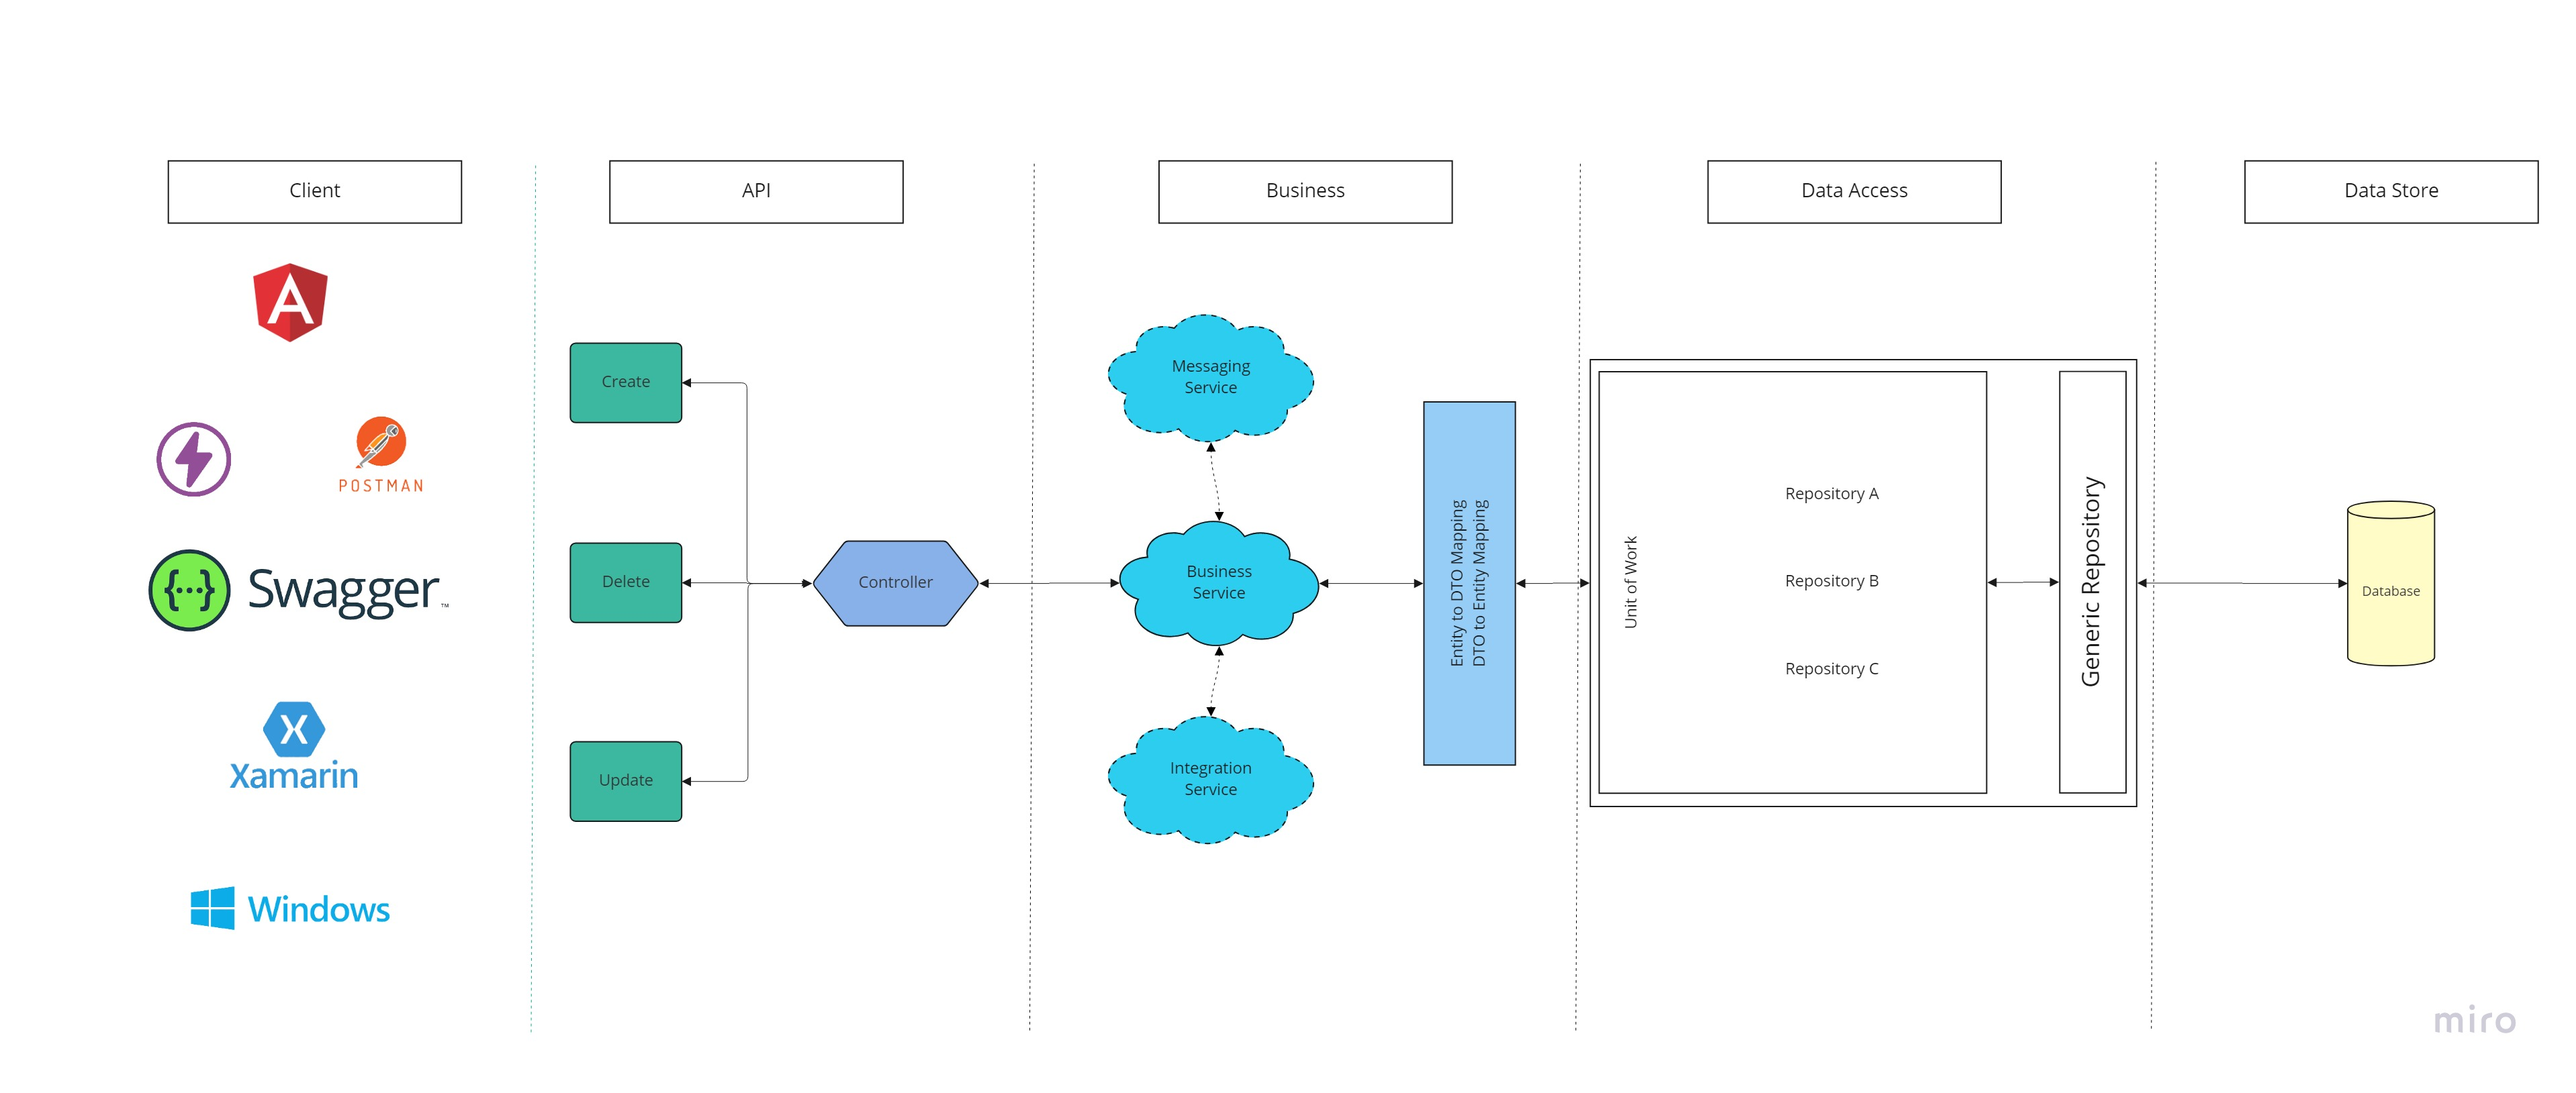
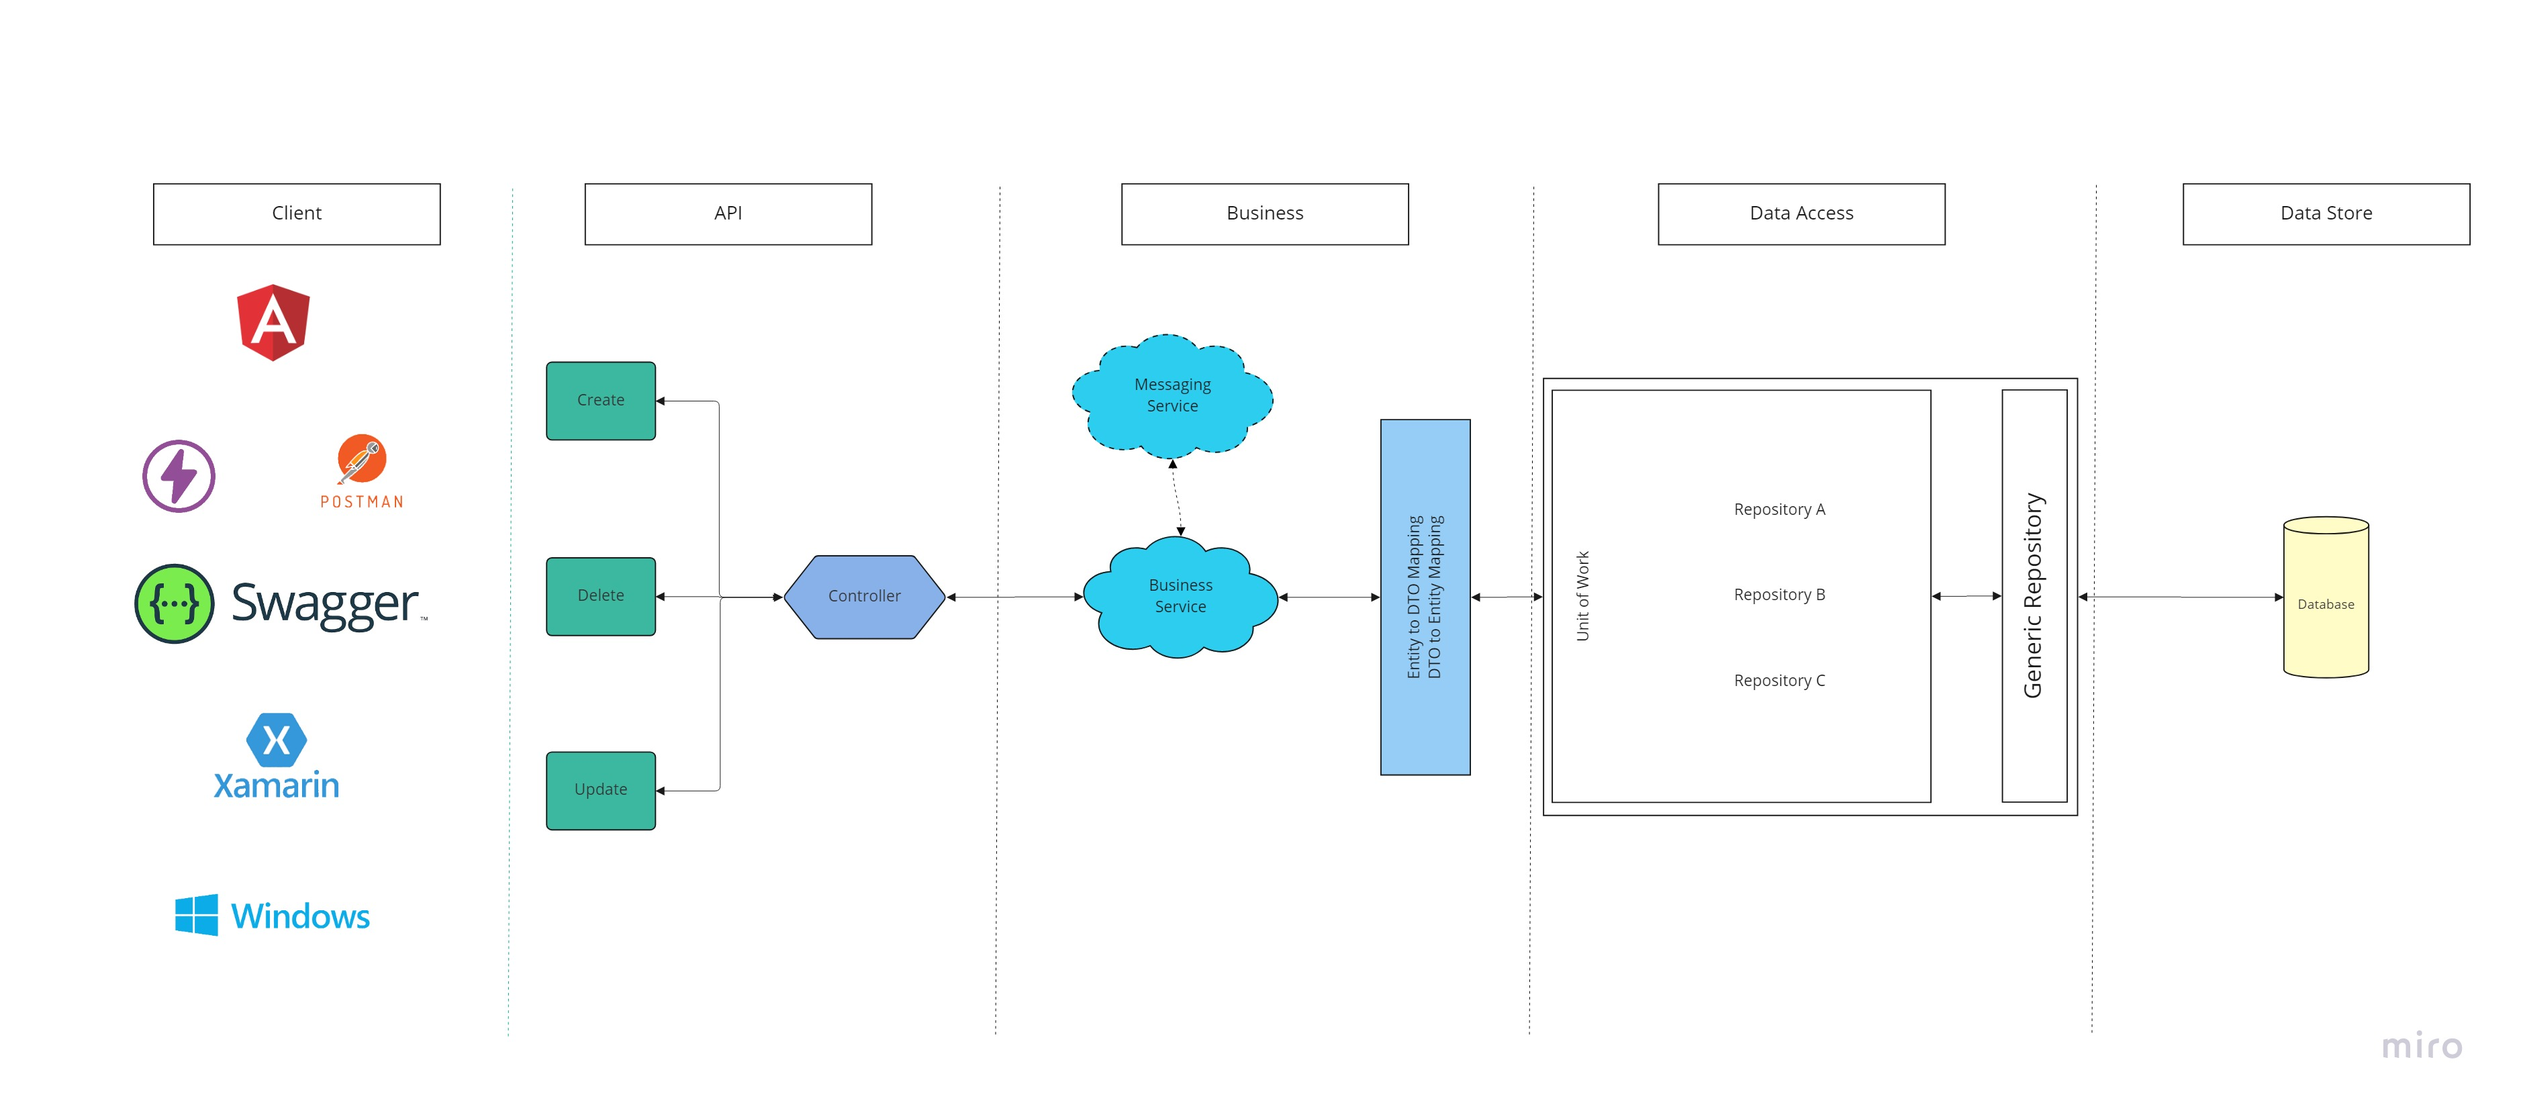
Update naming on services

diff --git a/topics/naming-service.md b/topics/naming-service.md
@@ -25,20 +25,18 @@ All Services are suffixed with dotService in order to make finding the actual DL
 * For Angular caching, read [this](https://baldur.gitbook.io/angular/rxjs/rxjs/sharereplay){:target="_blank"} related article on ShareReplay.
 * Please take precaution when using caching. Refresh/Delete the cache when data changes etc.
 
-
 ### Service Solutions contains the following projects
 * <i>Solution</i>.Service.API
 > Controllers
 * <i>Solution</i>.Service.Business
-> Business Logic related only to this project
+> Business Logic related to this project<br />
+> Includes Integration Folder for external service calls (Preferred method: Fluently) 
 * <i>Solution</i>.Service.Data
 > DbContext
 > Model Enitities
 > Unit of Work
 * <i>Solution</i>.Service.Dto
 > Classes correcponding to enities in Model Enitities
-* <i>Solution</i>.Service.Integration
-> All calls to external Services (Preferred method: fluently)
 * <i>Solution</i>.Service.UnitTests
 > Create unit tests per model entity 
 
